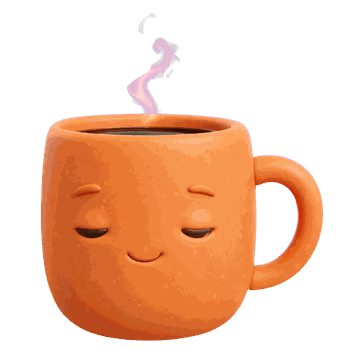
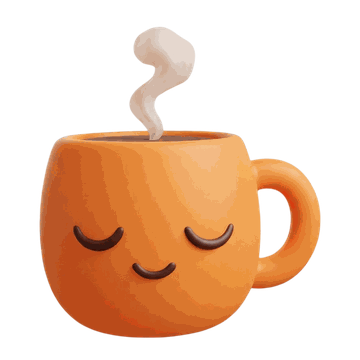
Pan's redrawn face, from the founder's own Nano Banana renders
Replaces all four mood faces with the new artwork. Cleaner form, softer
lighting, and a face that stays legible at the 44 to 72 pixels Pan is
actually drawn at.

Two things had to be checked before trusting these, and both passed.

The body hue lands at 24 to 25 degrees. panArtColor (#FF8A3D, Barako's
primary) is 23.8, so the theme tint keeps behaving exactly as designed:
Barako still takes NO filter at all, and the other seven rotate off a
reference the artwork genuinely matches. Rendered across all eight themes
through the real engine and looked at.

All four are composed onto one 360px canvas at an IDENTICAL cup width (279),
centre (179), and baseline (337). The scale is computed once from the widest
mood and shared, rather than per image, because per-image cropping would
resize Pan between moods and a character who grows when he smiles reads as a
glitch rather than as a reaction.

145KB for the four, against the 300KB cap. The size guard's message was
stale (it still quoted 53KB) and now describes what is actually there.

On the source files, worth writing down because it will come up again:
Nano Banana cannot emit an alpha channel. Asked for a transparent
background it PAINTS a grey checkerboard, because that is what transparency
looks like in its training data, and it adds a corner sparkle watermark. The
first batch arrived that way: alpha 255 everywhere, a checkerboard baked
into 68% of the pixels.
[…]

diff --git a/flutter/lib/widgets/pan_mascot.dart b/flutter/lib/widgets/pan_mascot.dart
@@ -39,8 +39,14 @@ const String kPanRivAsset = 'assets/pan/pan.riv';
 
 /// The rendered face for a mood.
 ///
-/// One file per mood rather than a sprite sheet: four 13KB PNGs are simpler to
-/// swap, and a sheet would have to be re-cut every time a face is redrawn.
+/// One file per mood rather than a sprite sheet: four small PNGs are simpler
+/// to swap, and a sheet would have to be re-cut every time a face is redrawn.
+///
+/// All four are rendered on one 360px canvas with the cup at an IDENTICAL
+/// width, centre, and baseline, so swapping moods changes the face and
+/// nothing else. Per-image cropping would resize Pan between moods, and a
+/// character who grows when he smiles reads as a glitch rather than a
+/// reaction.
 String panAssetFor(PanMood mood) => switch (mood) {
   PanMood.calm => 'assets/pan/pan-calm.png',
   PanMood.nudge => 'assets/pan/pan-nudge.png',

diff --git a/flutter/test/pan_asset_test.dart b/flutter/test/pan_asset_test.dart
@@ -98,9 +98,10 @@ void main() {
       total,
       lessThan(300 * 1024),
       reason:
-          'Pan is ${(total / 1024).round()}KB. The originals were 3.4MB and '
-          'were cut to about 53KB; a jump back means someone dropped a '
-          'full-resolution render in without processing it.',
+          'Pan is ${(total / 1024).round()}KB. The 1024px sources are several '
+          'megabytes and are cut to roughly 145KB for the four of them; a '
+          'jump back means someone dropped a full-resolution render in '
+          'without processing it.',
     );
   });
 

diff --git a/flutter/lib/main.dart b/flutter/lib/main.dart
@@ -30,7 +30,7 @@ import 'widgets/lock_gate.dart';
 ///
 /// The limit is enforced by a test, not by good intentions.
 const String updateStamp =
-    'f2.44 \u00b7 Pan has a real face, his cup takes your theme, and Home can greet you by name.';
+    'f2.45 \u00b7 Pan has a brand new face, his cup takes your theme, and Home can greet you by name.';
 
 void main() {
   // Before anything else, so an error thrown during startup is still caught.
